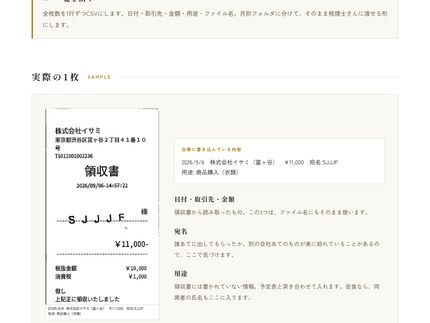
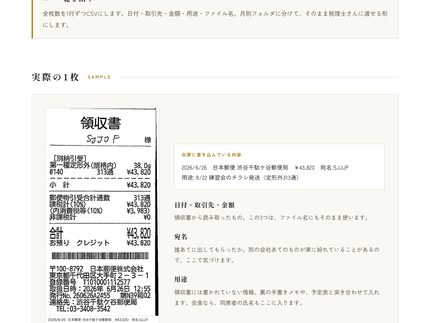
領収書ページ: 見本を郵便局の1枚に差し替え
衣類の購入をやめ、8/22練習会のチラシ発送（定形外313通・¥43,820）へ。
カード売上票の部分は載せないようトリミング。ファイル名の例も合わせた。

Changed region(s): [[0.0907, 0.3096, 0.8767, 1.0], [0.4233, 0.4334, 0.8163, 0.5573]]

diff --git a/ryoshusho/index.html b/ryoshusho/index.html
@@ -192,13 +192,13 @@
   <h2>実際の1枚<small>SAMPLE</small></h2>
   <div class="sample">
     <figure>
-      <img src="/assets/ryoshusho/sample.jpg" alt="スキャンした領収書の下に白い帯を足して、日付・店名・金額・宛名・用途を書き込んだもの">
+      <img src="/assets/ryoshusho/sample-yubin.jpg" alt="スキャンした郵便局の領収書の下に白い帯を足して、日付・取引先・金額・宛名・用途を書き込んだもの">
       <figcaption>下の白い帯が、あとから足した部分</figcaption>
     </figure>
     <dl>
       <div class="written">
         <p>白帯に書き込んでいる内容</p>
-        <span>2026/9/6　株式会社イサミ（富ヶ谷）　¥11,000　宛名:SJJJF<br>用途: 商品購入（衣類）</span>
+        <span>2026/6/26　日本郵便 渋谷千駄ケ谷郵便局　¥43,820　宛名:SJJJF<br>用途: 8/22 練習会のチラシ発送（定形外313通）</span>
       </div>
       <div>
         <dt>日付・取引先・金額</dt>
@@ -210,16 +210,16 @@
       </div>
       <div>
         <dt>用途</dt>
-        <dd>領収書には書かれていない情報。予定表と突き合わせて入れます。会食なら、同席者の氏名もここに入ります。</dd>
+        <dd>領収書には書かれていない情報。裏の手書きメモや、予定表と突き合わせて入れます。会食なら、同席者の氏名もここに入ります。</dd>
       </div>
     </dl>
   </div>
-  <p class="ba-note">※ 公開ページのため、氏名の入らない1枚（物品の購入）を例にしています。</p>
+  <p class="ba-note">※ 公開ページのため、氏名の入らない1枚（郵便局での発送）を例にしています。</p>
 
   <h2>ファイル名が、そのまま台帳<small>FILE NAME</small></h2>
   <p class="lead-copy">電子帳簿保存法で求められる検索条件は「取引年月日・取引金額・取引先」の3つ。この3つをファイル名に入れておけば、専用のシステムがなくても、フォルダの検索窓だけで探せます。</p>
   <div class="fname">
-    <b><i>20260906</i><u>取引年月日</u></b><span>_</span><b><i>イサミ</i><u>取引先</u></b><span>_</span><b><i>11000</i><u>取引金額</u></b><span>.jpg</span>
+    <b><i>20260626</i><u>取引年月日</u></b><span>_</span><b><i>日本郵便</i><u>取引先</u></b><span>_</span><b><i>43820</i><u>取引金額</u></b><span>.jpg</span>
   </div>
   <ul class="plain" style="margin-top: 26px;">
     <li><b>1枚の領収書＝1つのファイル。</b>まとめて1つのPDFにすると、検索の条件を満たせなくなります。</li>
